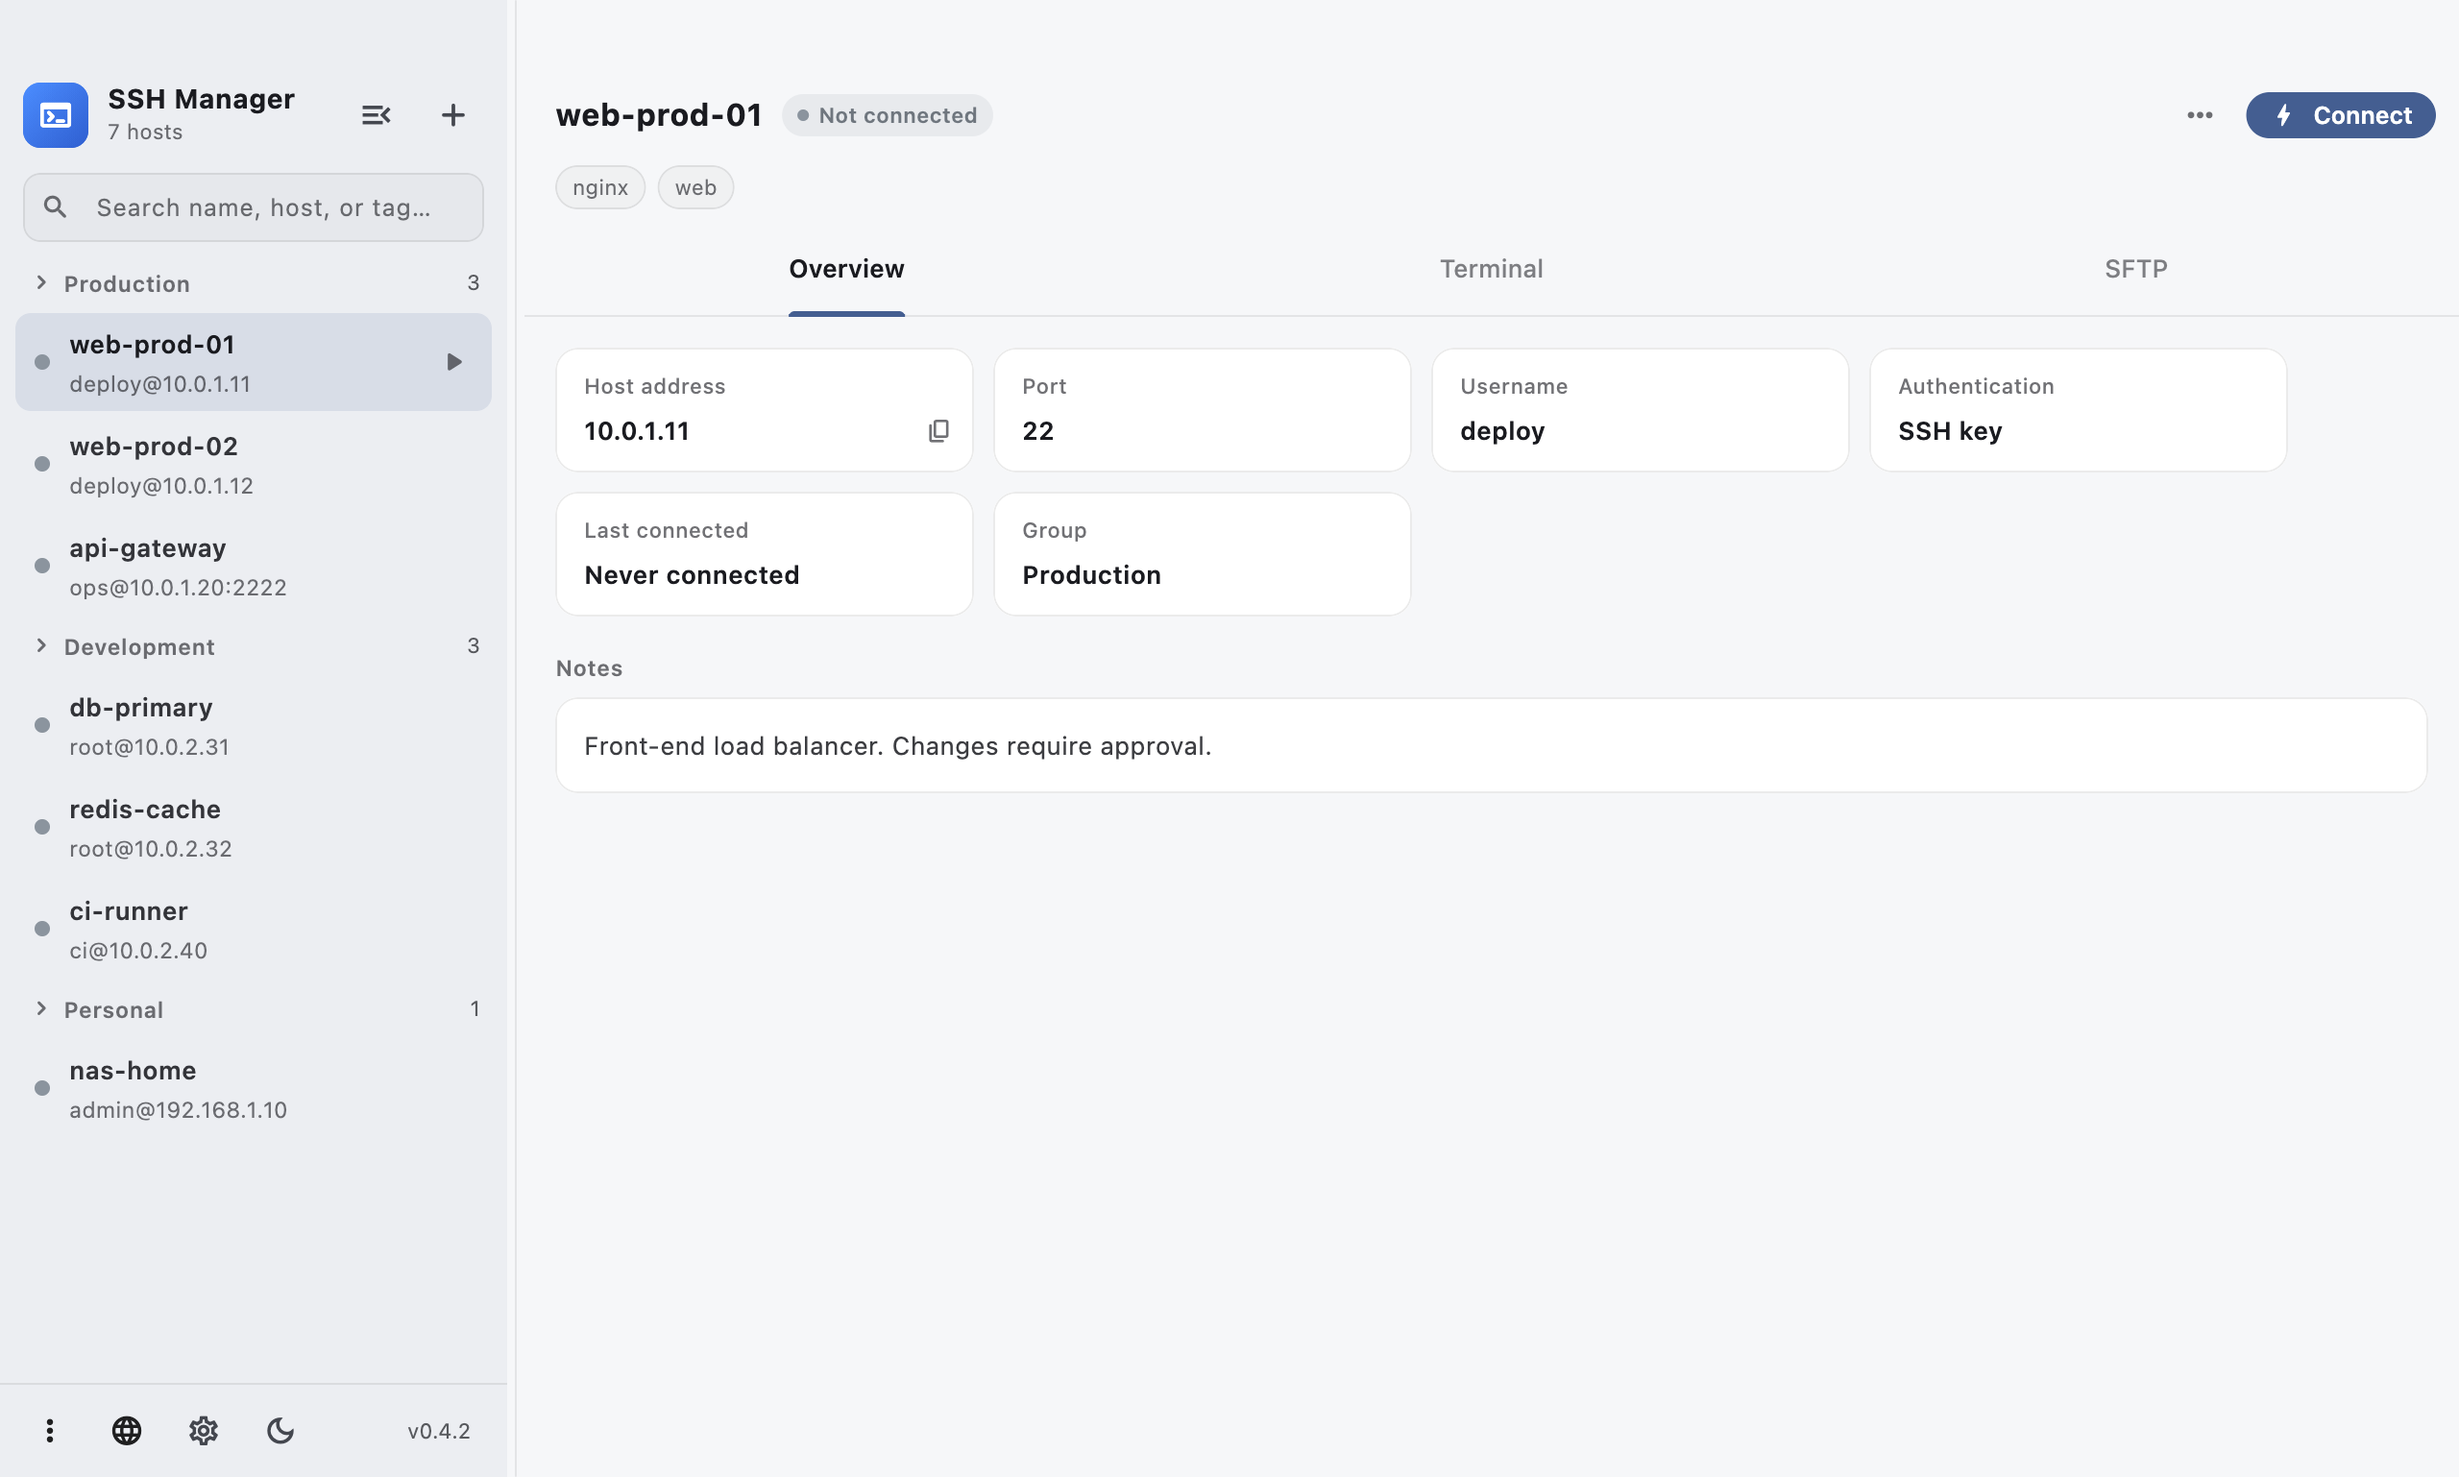
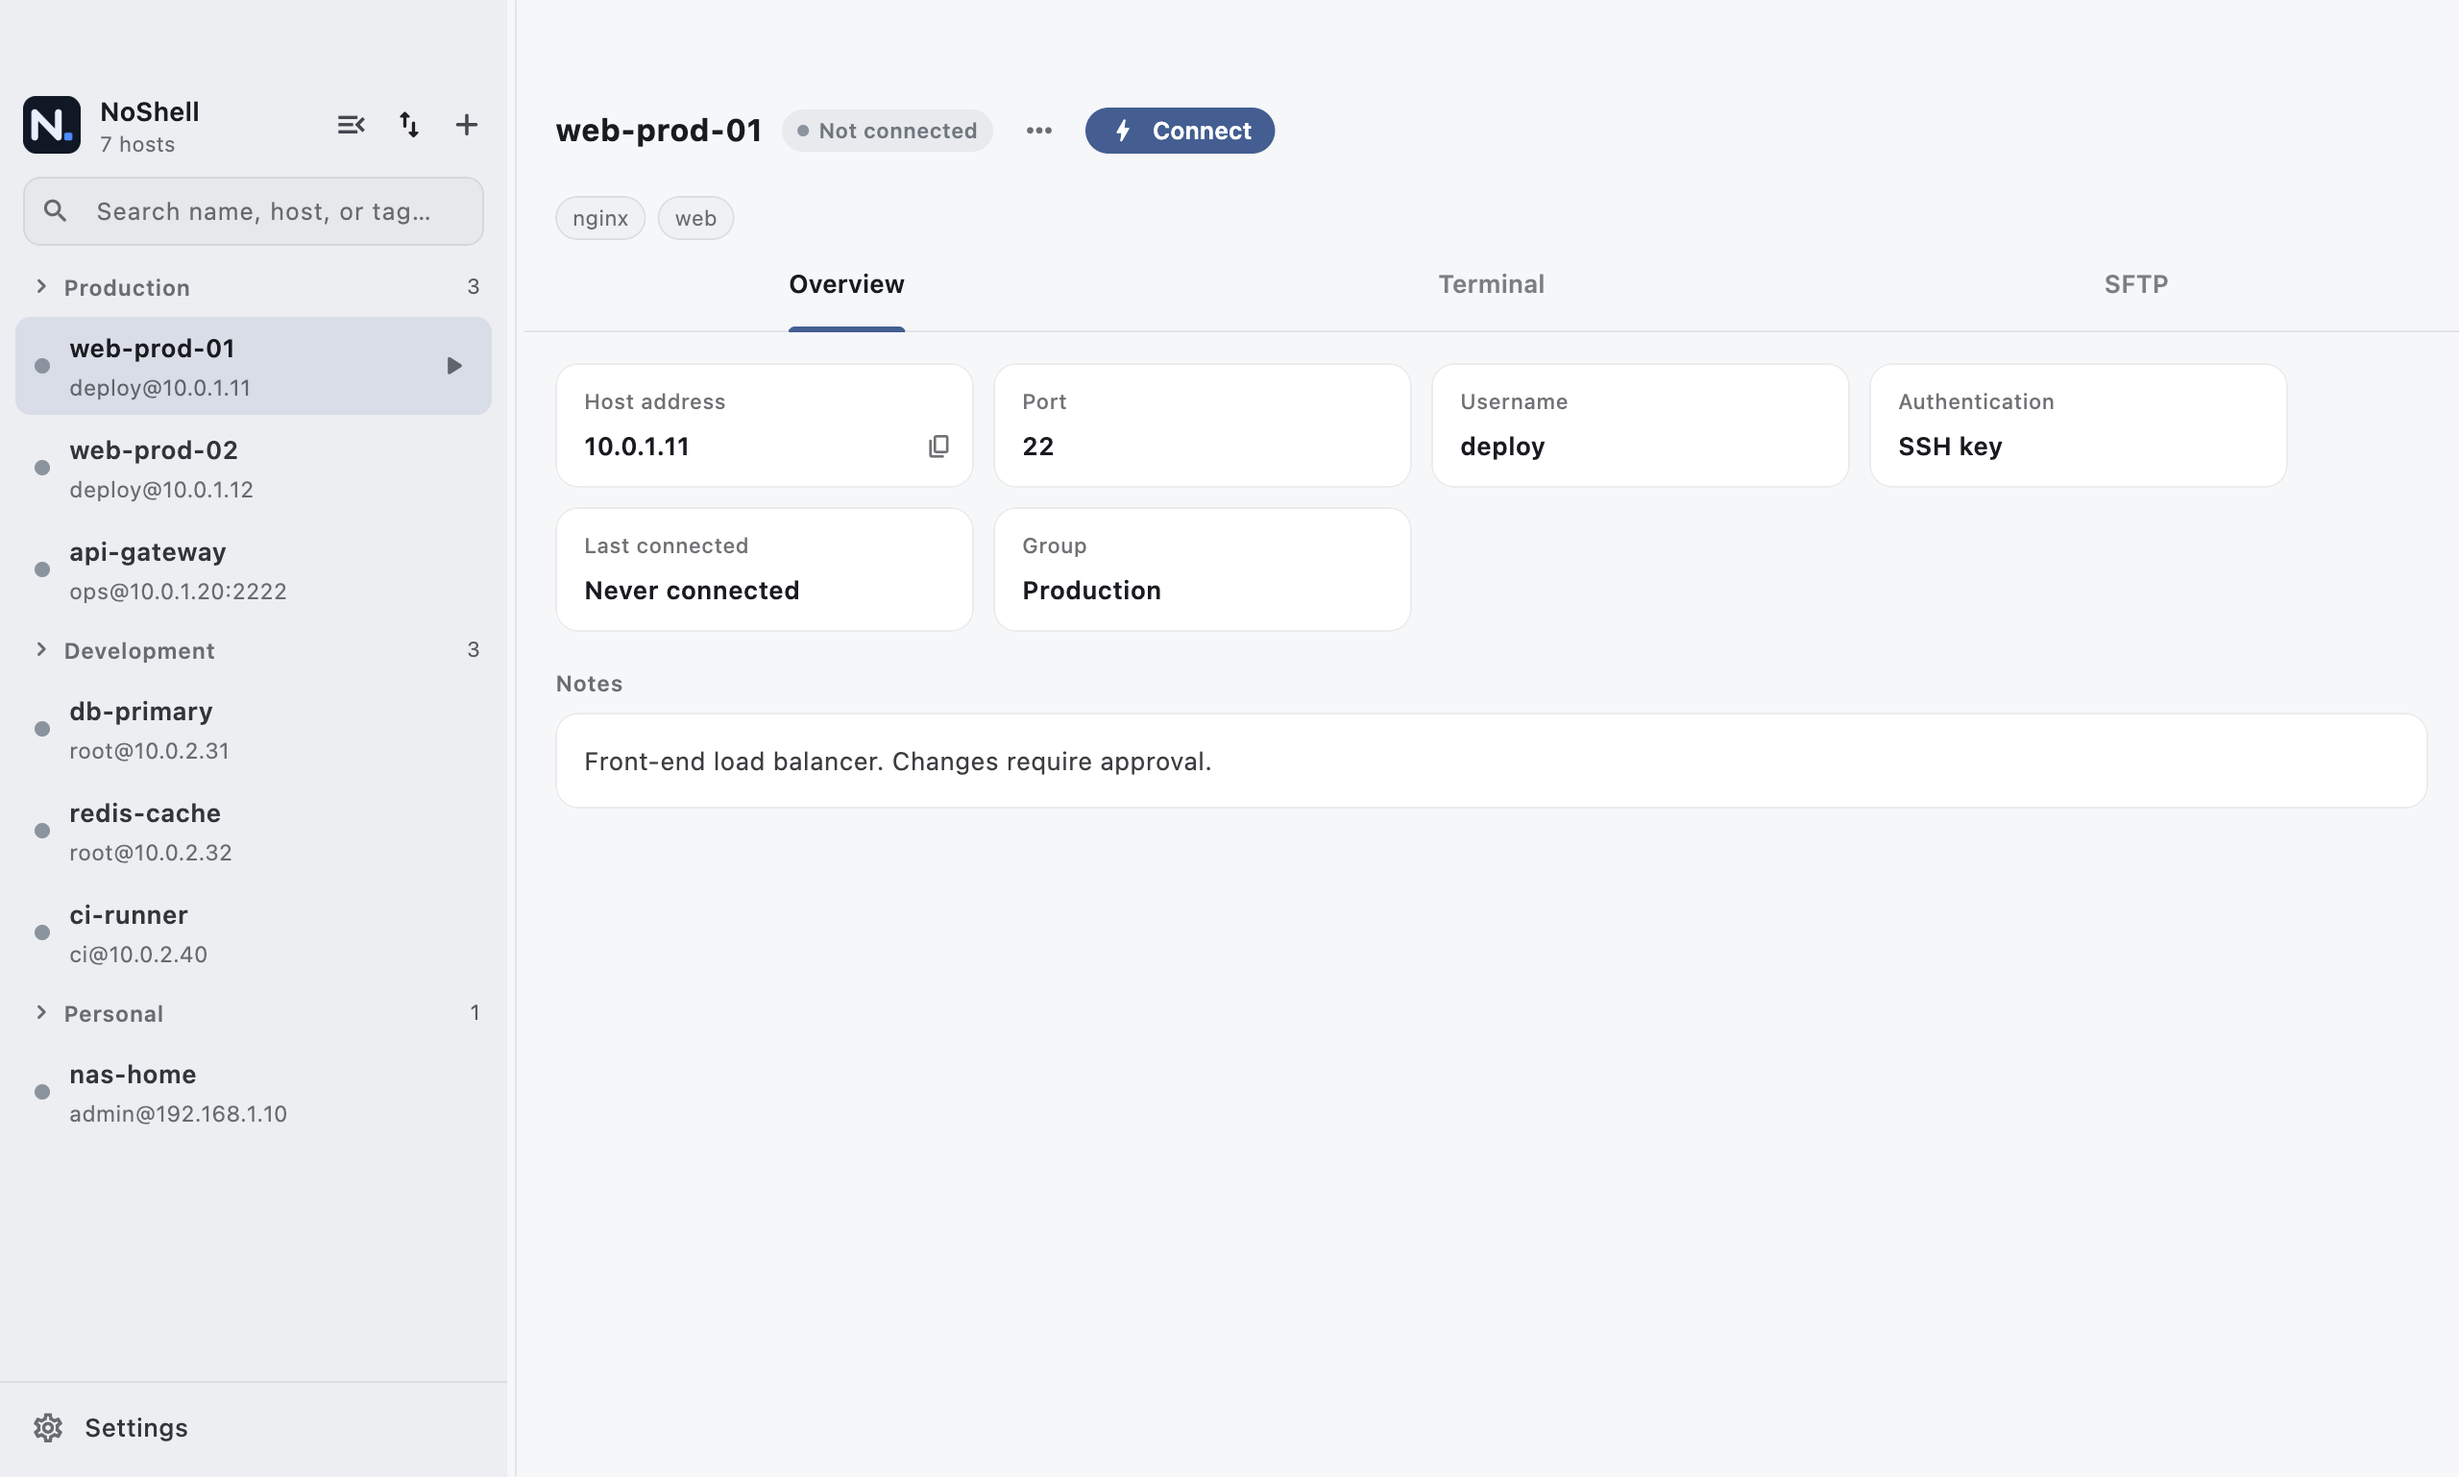
docs: 按 NoShell 新 UI 重新生成 README 截图
- 截图驱动适配新设置弹窗：关闭按钮 Cancel→Done，深色切换改用弹窗内主题分段
  （Dark 即时生效），替换已不存在的侧栏 dark_mode 图标路径
- 终端/设置/SFTP 等截图接入本地演示服务端真实链路，浅色 7 张更新，
  08-mobile 重挂载渲染与原版一致
- 设置弹窗展示 NoShell · v0.1.0 与新 App 图标标（app_icon_mark）

diff --git a/integration_test/screenshots_test.dart b/integration_test/screenshots_test.dart
@@ -212,11 +212,11 @@ void main() {
     await tester.tap(find.byIcon(Icons.settings_outlined));
     await settle(600);
     await shot('06-settings');
-    await tester.tap(find.widgetWithText(FilledButton, 'Cancel'));
-    await settle(600);
 
-    // 7. 深色主题。
-    await tester.tap(find.byIcon(Icons.dark_mode_outlined));
+    // 7. 深色主题：设置内主题分段切到 Dark（即时生效），关闭后截主界面。
+    await tester.tap(find.text('Dark'));
+    await settle(600);
+    await tester.tap(find.widgetWithText(FilledButton, 'Done'));
     await settle(600);
     await shot('07-dark');
 
